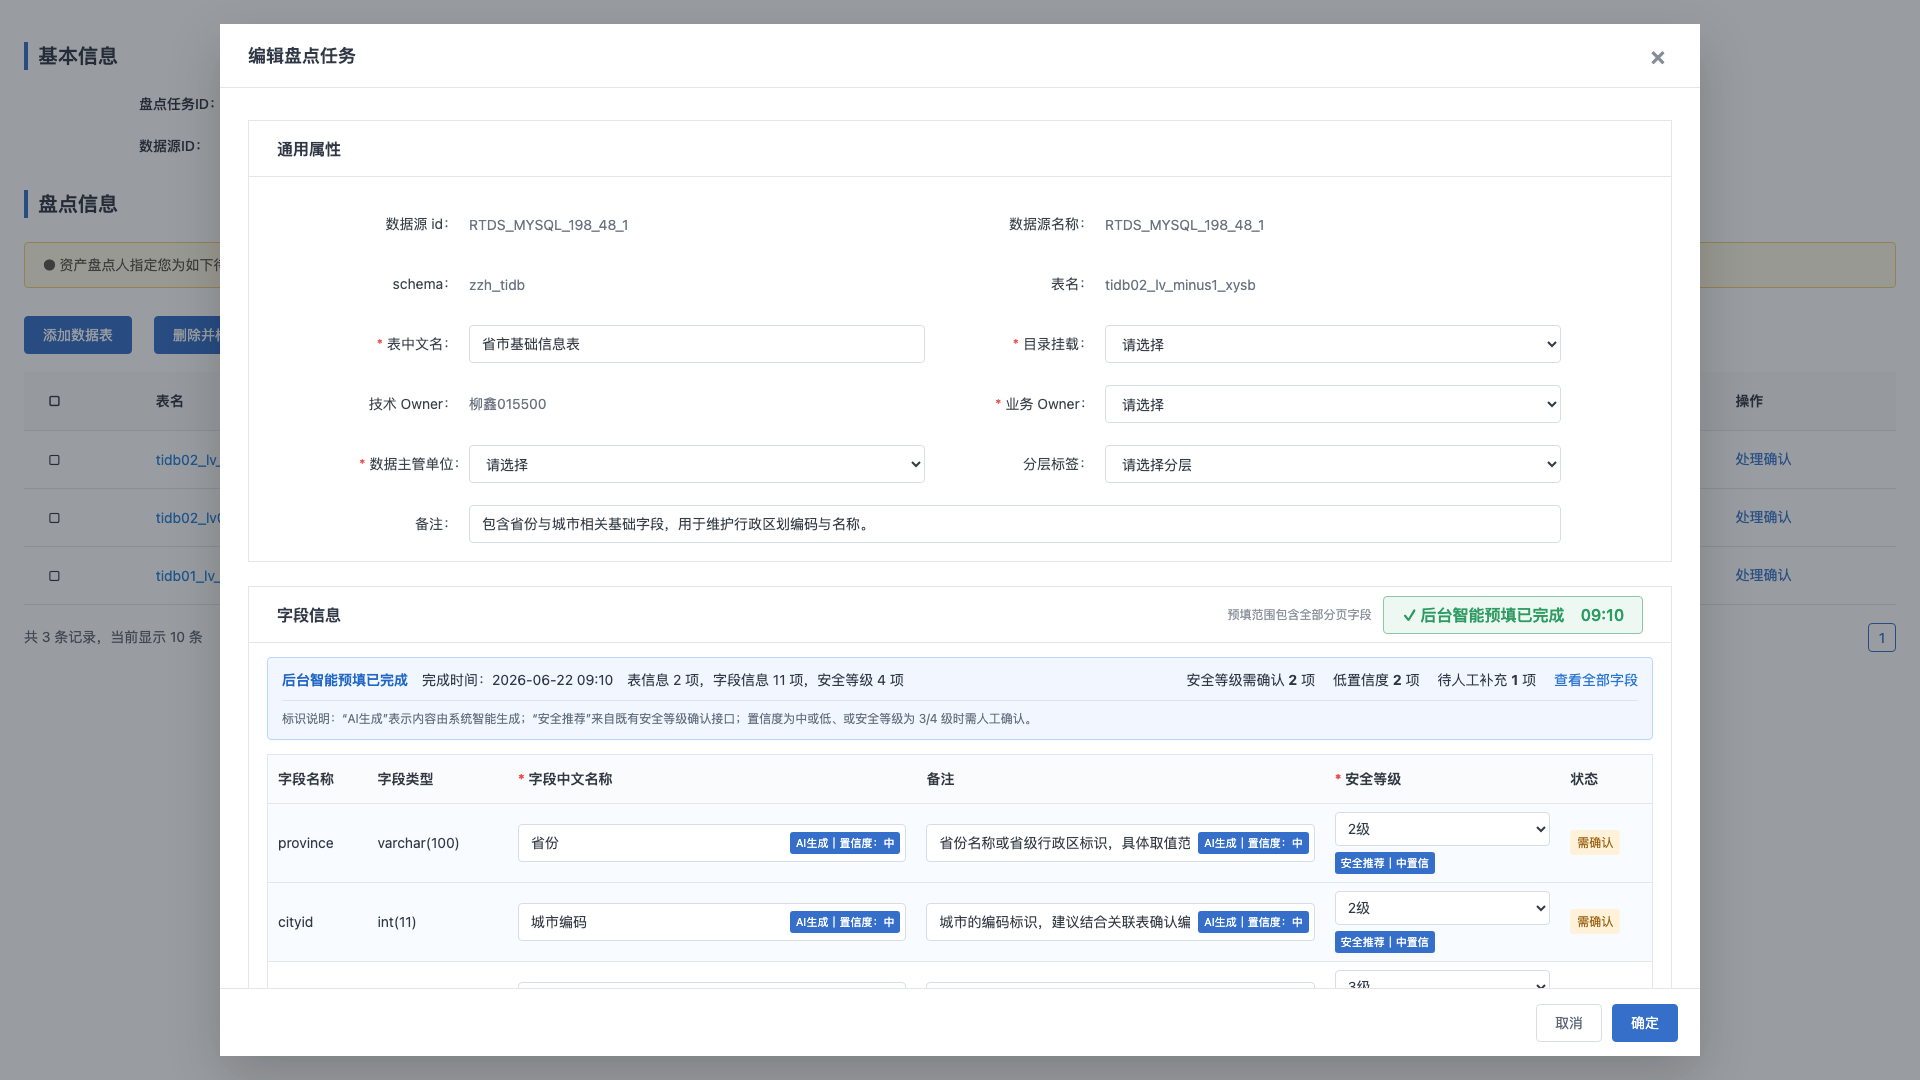
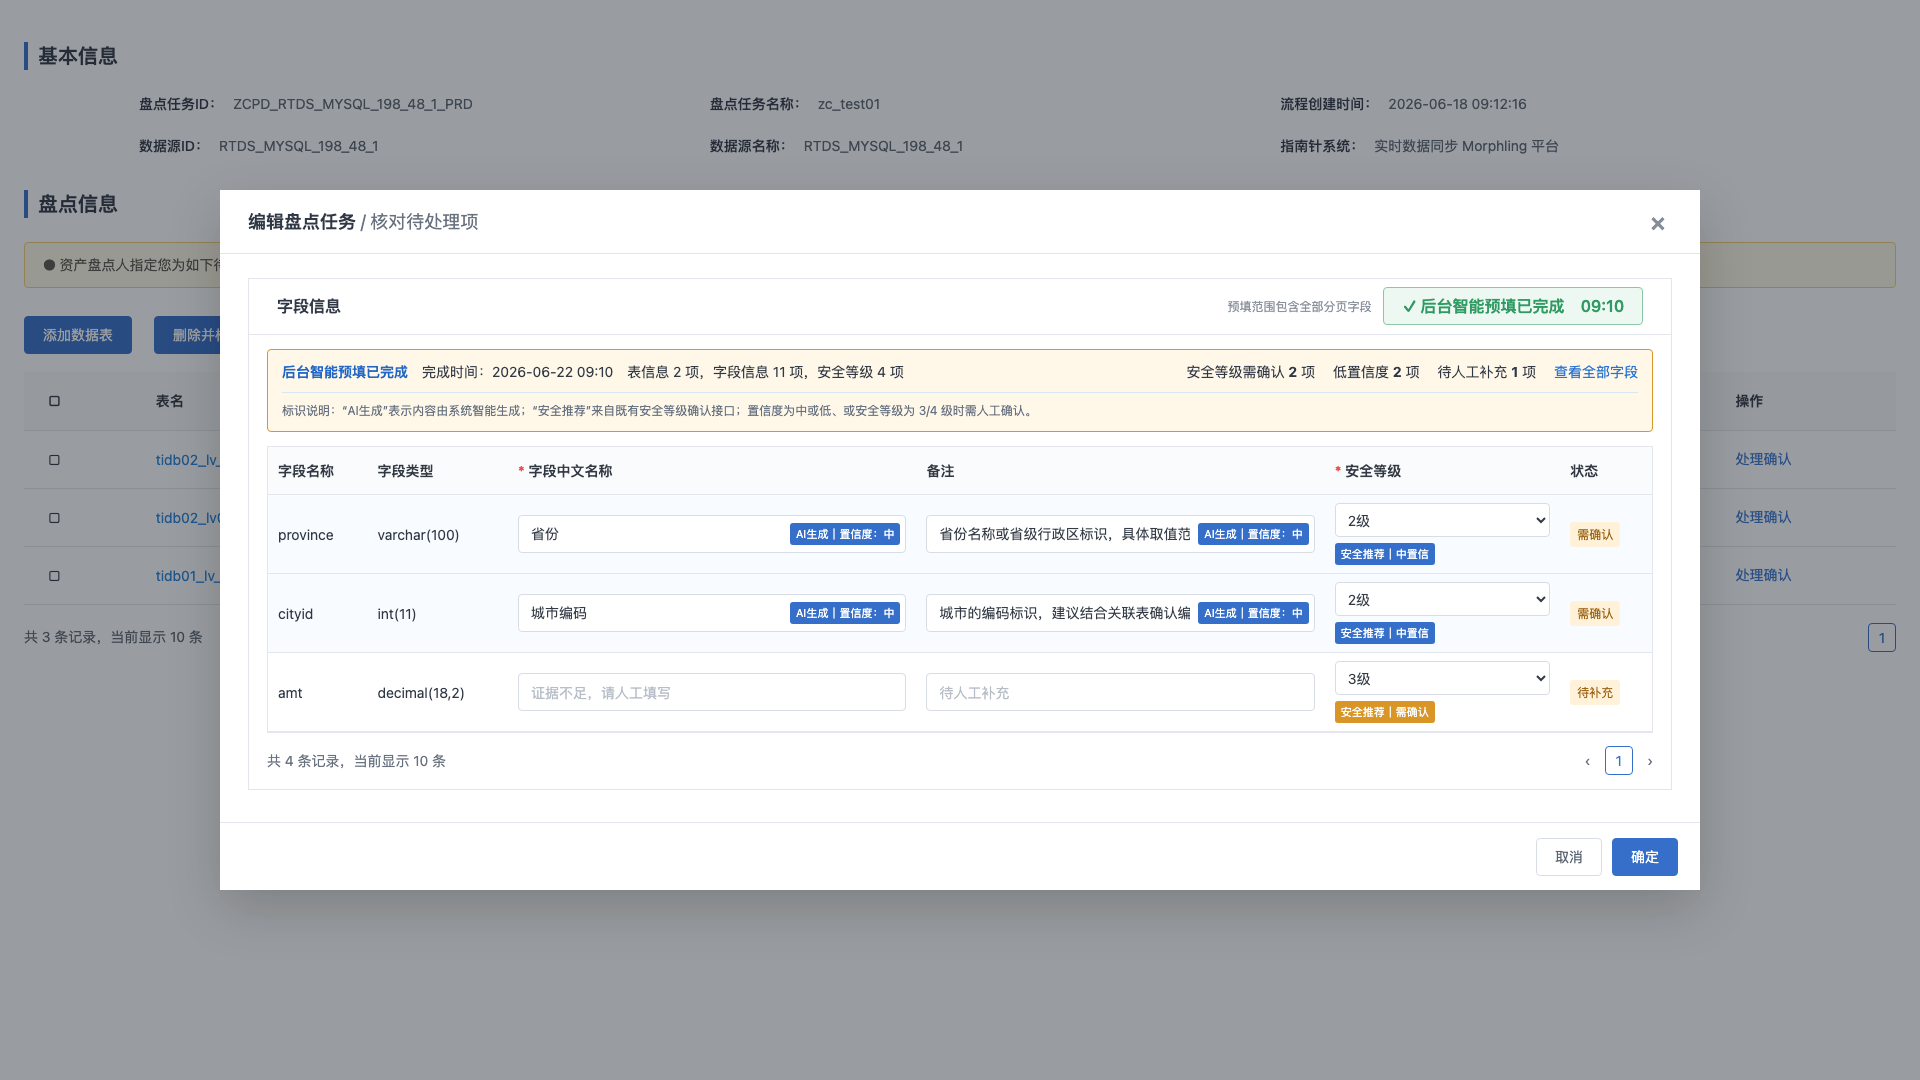
Update metadata fill prototype assets

diff --git a/本体论元数据AI模型/一键智能填充原型/Axure原型/index.html b/本体论元数据AI模型/一键智能填充原型/Axure原型/index.html
@@ -99,6 +99,11 @@
     .security-tag.manual { background: #697386; }
     .pending { display: inline-flex; padding: 4px 7px; border-radius: 3px; color: #9a6111; background: #fff2d9; font-size: 12px; }
     .field-pager { display: flex; justify-content: space-between; padding: 18px; color: #68717e; }
+    body.pending-mode #commonPanel { display: none; }
+    body.pending-mode .modal-head span::after { content: " / 核对待处理项"; color: #68717e; font-weight: 400; }
+    body.pending-mode .modal-body { padding-top: 24px; }
+    body.pending-mode .field-panel { margin-top: 0; }
+    body.pending-mode .summary { border-color: #d99525; background: #fff8e8; }
 
     .popover-mask { position: absolute; inset: 0; z-index: 30; background: rgba(20, 27, 36, .12); display: grid; place-items: center; }
     .popover { width: min(620px, calc(100% - 40px)); background: #fff; border-radius: 0; box-shadow: 0 18px 55px rgba(0,0,0,.22); }
@@ -168,7 +173,7 @@
     <section class="modal" id="editorModal">
       <header class="modal-head"><span>编辑盘点任务</span><button class="close" id="closeEditor">×</button></header>
       <div class="modal-body">
-        <section class="panel">
+        <section class="panel" id="commonPanel">
           <div class="panel-title">通用属性</div>
           <div class="form">
             <div class="form-row"><div class="label">数据源 id：</div><div class="read">RTDS_MYSQL_198_48_1</div></div>
@@ -368,6 +373,7 @@
     const prototypeState = new URLSearchParams(window.location.search).get('state');
     applyResult();
     if (prototypeState === 'pending') {
+      document.body.classList.add('pending-mode');
       $('#filterPending').click();
     } else if (prototypeState === 'evidence') {
       openEvidence(document.querySelector('.security-tag.medium'));